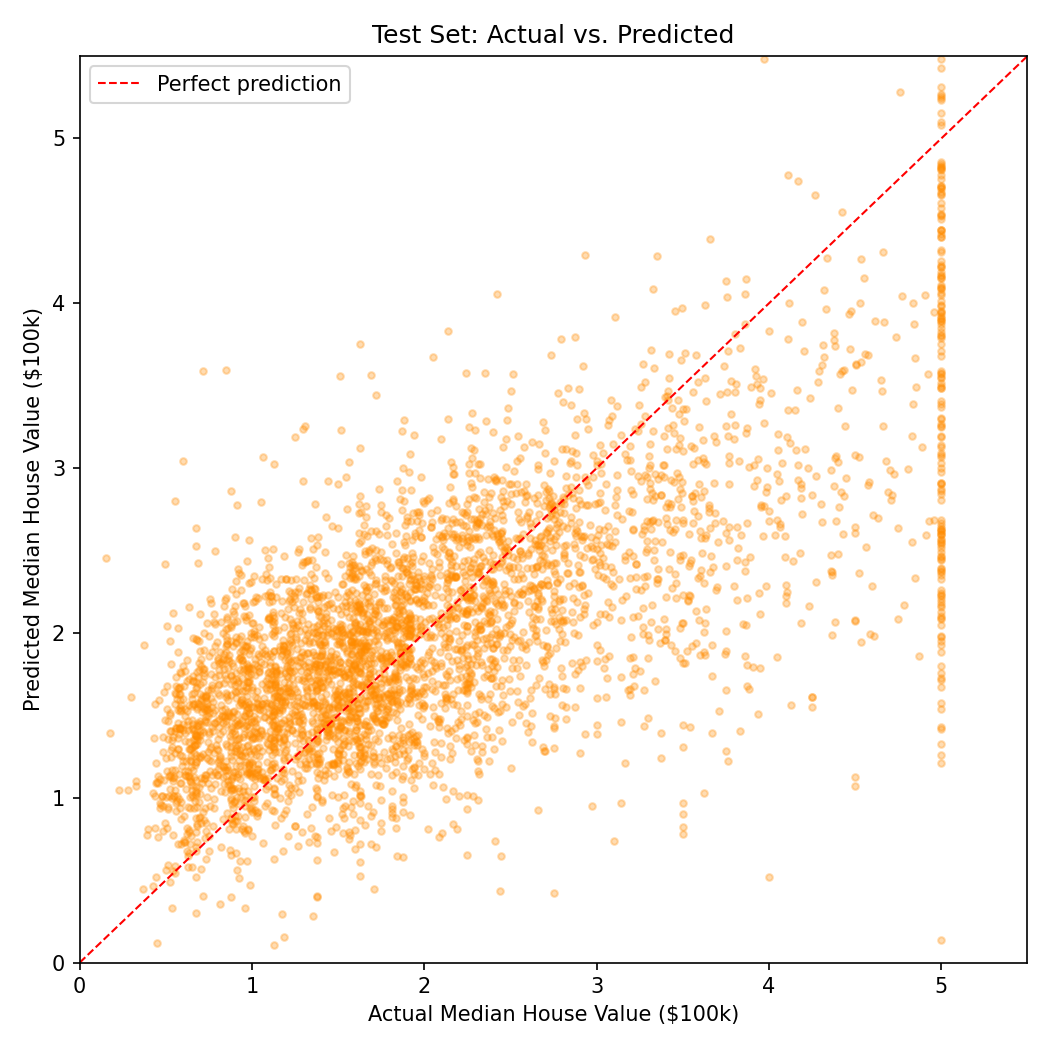
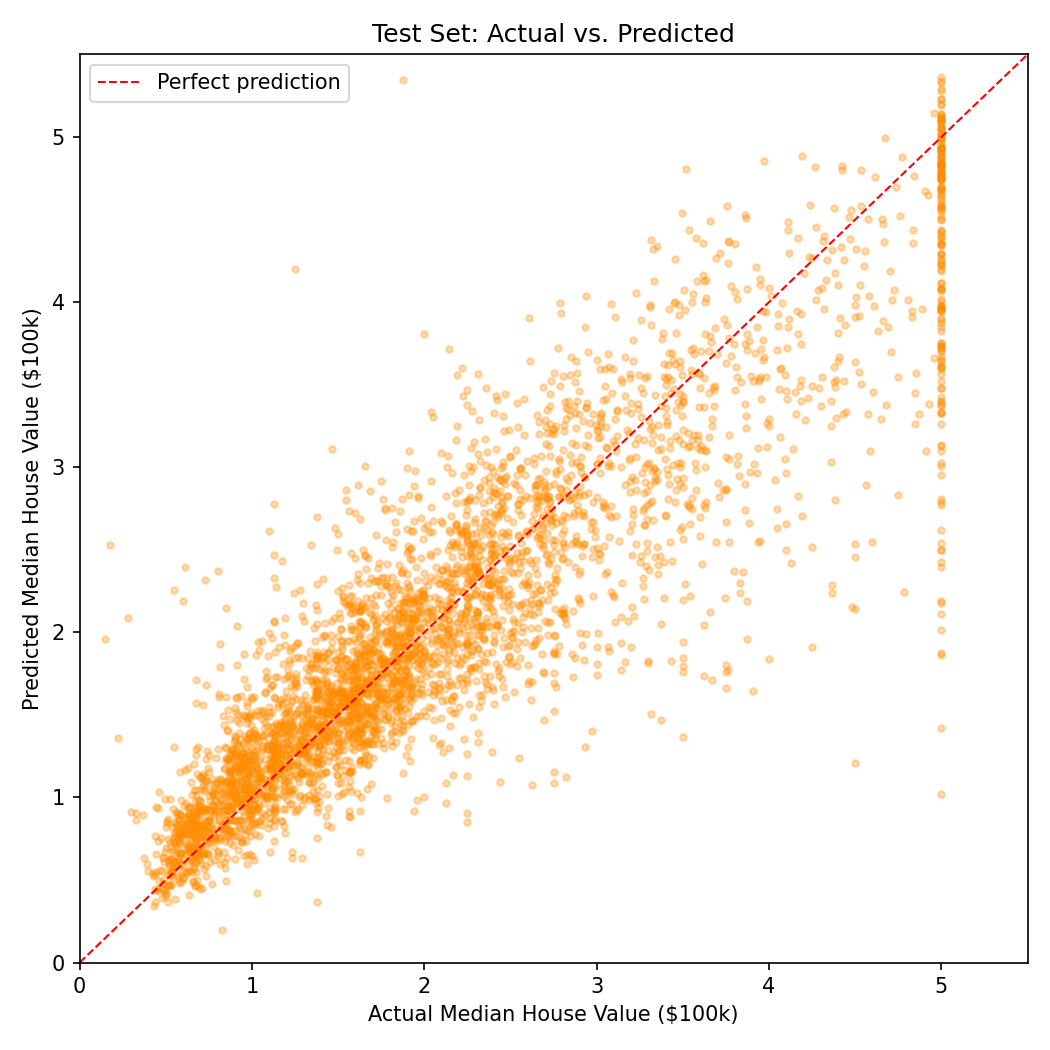
Add StandardScaler and evaluation metrics

diff --git a/src/ds_pipeline.py b/src/ds_pipeline.py
@@ -3,6 +3,9 @@ import matplotlib.pyplot as plt
 from sklearn.datasets import fetch_california_housing
 from sklearn.model_selection import train_test_split
 from sklearn.neural_network import MLPRegressor
+from sklearn.preprocessing import StandardScaler
+from sklearn.pipeline import Pipeline
+from sklearn.metrics import r2_score, mean_absolute_error, root_mean_squared_error
 
 # Load dataset
 housing = fetch_california_housing()
@@ -18,21 +21,38 @@ print(f"Test size:  {X_test.shape[0]} samples")
 print(f"Features:   {housing.feature_names}")
 
 
-mlp = MLPRegressor(
+MLP_PARAMS = dict(
     hidden_layer_sizes=(100, 50),
     activation='relu',
     solver='adam',
-    early_stopping=True,          # <-- enables early stopping
-    validation_fraction=0.1,      # 10% of training data used as validation
-    n_iter_no_change=10,          # stop if no improvement for 10 epochs
+    early_stopping=True,
+    validation_fraction=0.1,
+    n_iter_no_change=10,
     max_iter=500,
-    random_state=42
+    random_state=42,
 )
 
-mlp.fit(X_train, y_train)
+# Baseline: unscaled MLP
+mlp_unscaled = MLPRegressor(**MLP_PARAMS)
+mlp_unscaled.fit(X_train, y_train)
+r2_unscaled_train = r2_score(y_train, mlp_unscaled.predict(X_train))
+r2_unscaled_test  = r2_score(y_test,  mlp_unscaled.predict(X_test))
+
+# Scaled pipeline
+pipeline = Pipeline([
+    ("scaler", StandardScaler()),
+    ("mlp", MLPRegressor(**MLP_PARAMS)),
+])
+pipeline.fit(X_train, y_train)
 
 # Train predictions
-y_train_pred = mlp.predict(X_train)
+y_train_pred = pipeline.predict(X_train)
+r2_scaled_train = r2_score(y_train, y_train_pred)
+
+print(f"\nTrain Metrics:")
+print(f"  R²:   {r2_score(y_train, y_train_pred):.4f}")
+print(f"  MAE:  {mean_absolute_error(y_train, y_train_pred):.4f}")
+print(f"  RMSE: {root_mean_squared_error(y_train, y_train_pred):.4f}")
 
 # Plot: actual vs. predicted on training set
 os.makedirs("figures", exist_ok=True)
@@ -54,7 +74,17 @@ print("Saved figures/train_actual_vs_pred.png")
 
 
 # Test predictions
-y_test_pred = mlp.predict(X_test)
+y_test_pred = pipeline.predict(X_test)
+r2_scaled_test = r2_score(y_test, y_test_pred)
+
+print(f"\nTest Metrics:")
+print(f"  R²:   {r2_score(y_test, y_test_pred):.4f}")
+print(f"  MAE:  {mean_absolute_error(y_test, y_test_pred):.4f}")
+print(f"  RMSE: {root_mean_squared_error(y_test, y_test_pred):.4f}")
+
+print(f"\nScaling impact (R²):")
+print(f"  Train: {r2_unscaled_train:.4f} -> {r2_scaled_train:.4f}  ({r2_scaled_train - r2_unscaled_train:+.4f})")
+print(f"  Test:  {r2_unscaled_test:.4f}  -> {r2_scaled_test:.4f}   ({r2_scaled_test - r2_unscaled_test:+.4f})")
 
 # Plot: actual vs. predicted on test set
 fig, ax = plt.subplots(figsize=(7, 7))

diff --git a/README.md b/README.md
@@ -36,3 +36,25 @@ python src/ds_pipeline.py
 Running the script generates two plots saved to `figures/`:
 - `train_actual_vs_pred.png` - actual vs predicted on training set
 - `test_actual_vs_pred.png` - actual vs predicted on test set
+
+It also prints evaluation metrics (R², MAE, RMSE) for both sets and a before/after scaling comparison.
+
+## Results
+
+### Final model (with StandardScaler)
+
+| Set   | R²     | MAE    | RMSE   |
+|-------|--------|--------|--------|
+| Train | 0.8060 | 0.3403 | 0.5092 |
+| Test  | 0.7861 | 0.3563 | 0.5294 |
+
+### Impact of feature scaling
+
+Adding `StandardScaler` before the MLP improved test R² by **+0.31** - a large gain for a single change.
+
+| Set   | Unscaled R² | Scaled R² | Change  |
+|-------|-------------|-----------|---------|
+| Train | 0.4879      | 0.8060    | +0.3181 |
+| Test  | 0.4751      | 0.7861    | +0.3110 |
+
+MLP gradient descent is sensitive to feature scale. The California Housing features span very different ranges (e.g. `AveRooms` vs `Population`), so normalizing them to zero mean and unit variance is critical for the optimizer to converge well.
